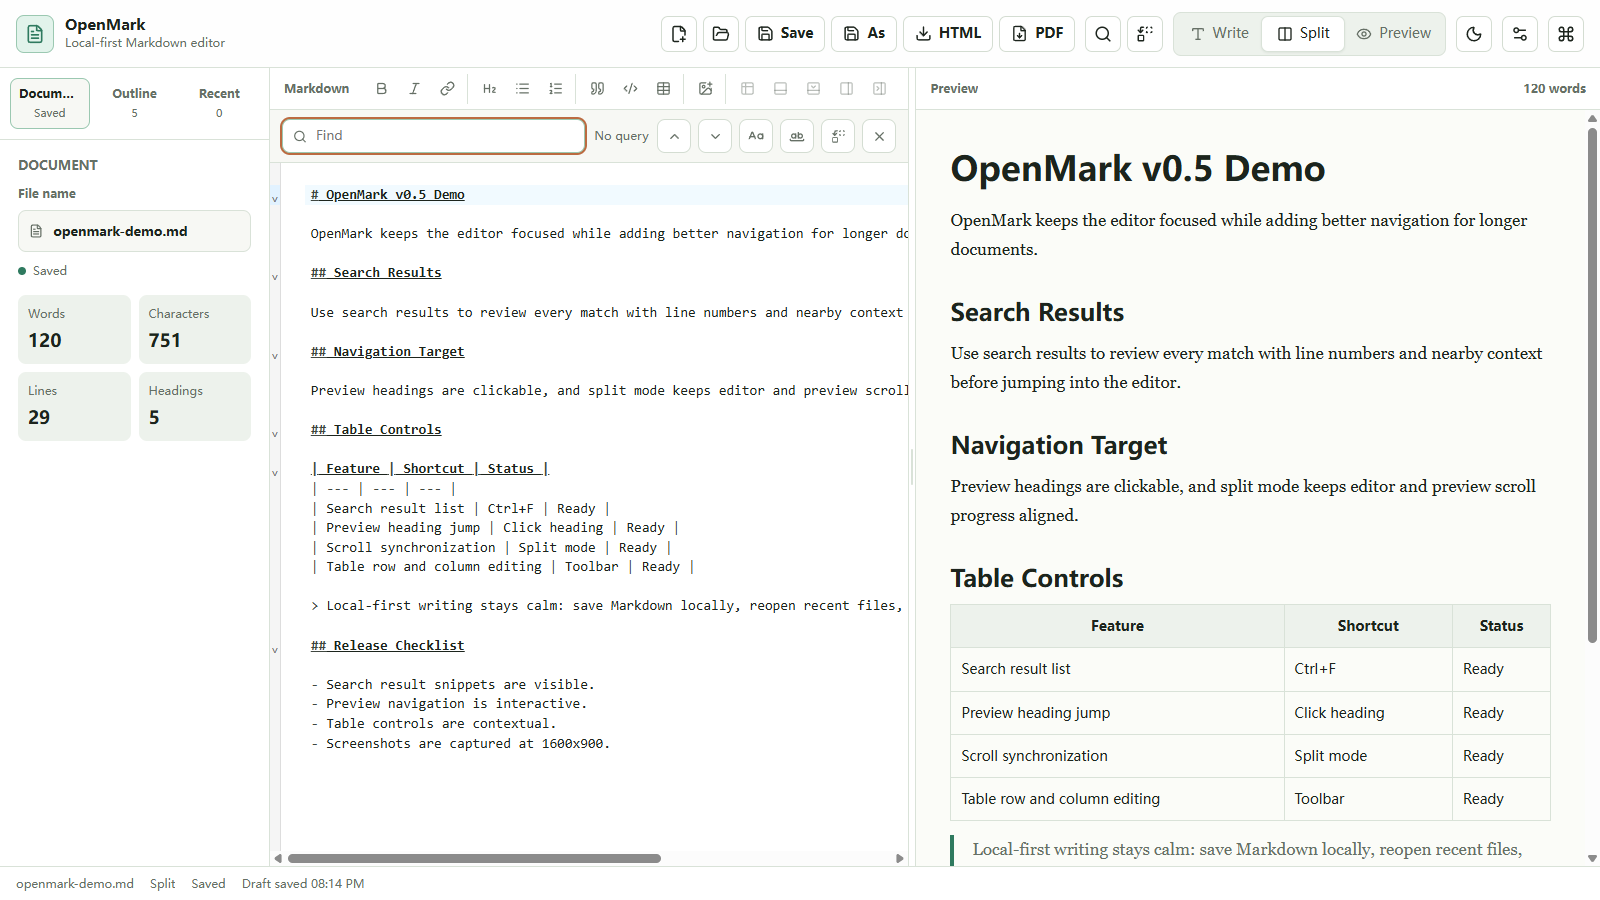
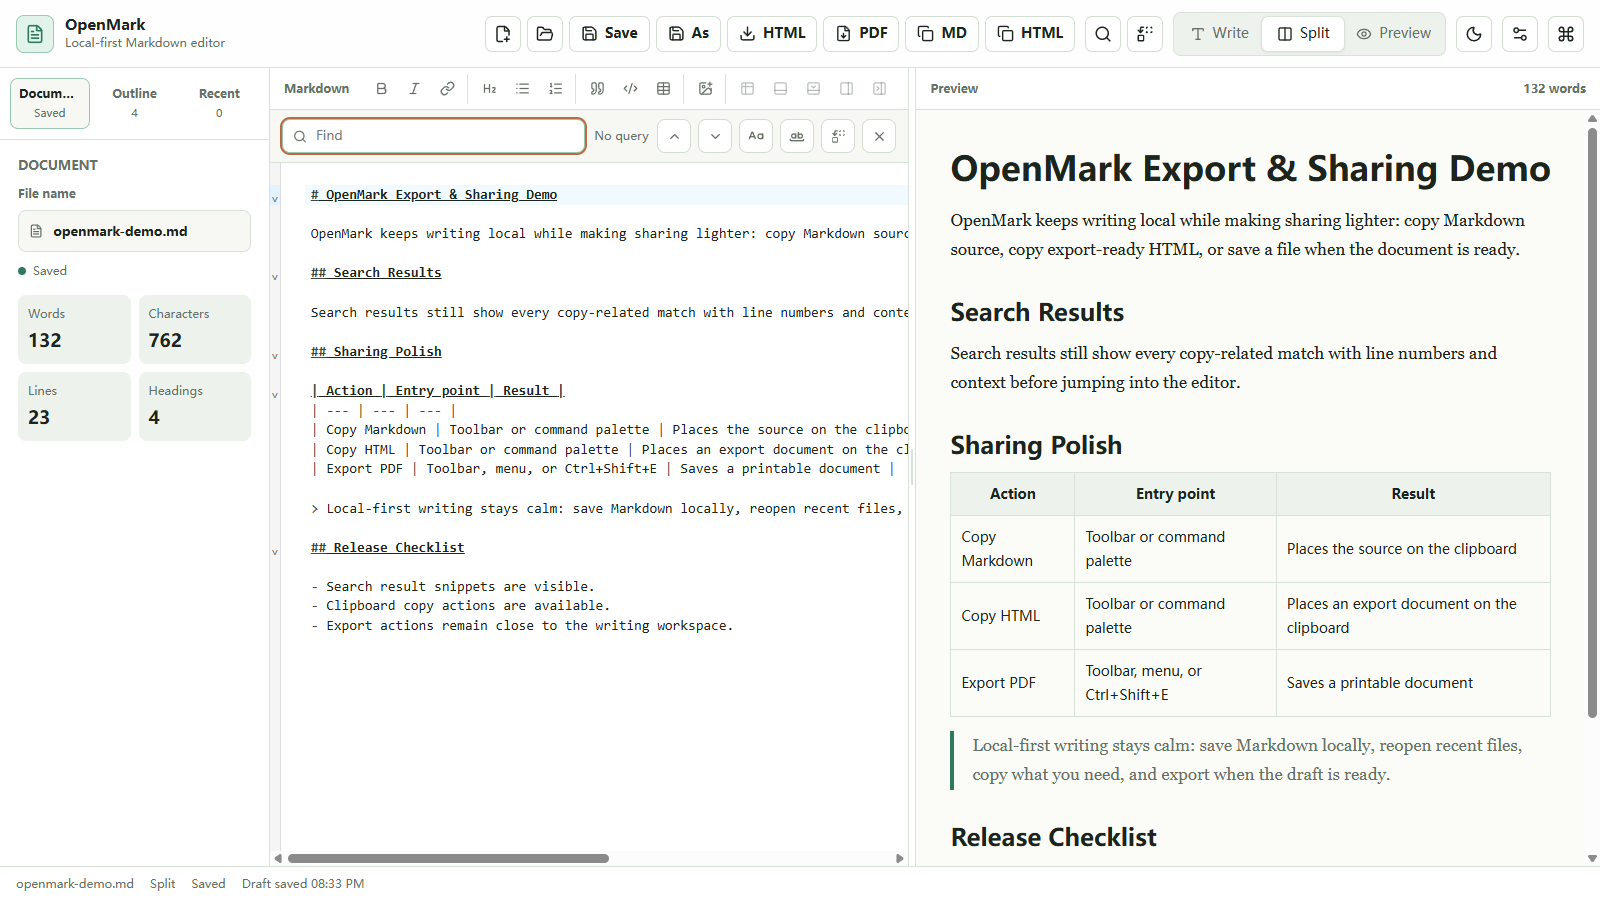
Add clipboard sharing actions

diff --git a/src/App.tsx b/src/App.tsx
@@ -31,6 +31,7 @@ import {
   Code2,
   Columns2,
   Command as CommandIcon,
+  Copy,
   Download,
   Eye,
   FileDown,
@@ -84,6 +85,9 @@ type BlockFormat = 'heading-2' | 'bullet-list' | 'ordered-list' | 'quote' | 'cod
 type MarkdownFormat = InlineFormat | BlockFormat
 type TableEditAction = 'format' | 'insert-row-below' | 'delete-row' | 'insert-column-right' | 'delete-column'
 type TableTranslationKey = 'formatTable' | 'addRowBelow' | 'deleteRow' | 'addColumnRight' | 'deleteColumn'
+type ClipboardCopyKind = 'markdown' | 'html'
+
+const clipboardWriteTimeoutMs = 1200
 
 type OutlineItem = {
   level: number
@@ -1212,6 +1216,7 @@ function App() {
   const [previewImageSources, setPreviewImageSources] = useState<PreviewImageSource[]>([])
   const [isThemeSettingsOpen, setIsThemeSettingsOpen] = useState(false)
   const [updateStatus, setUpdateStatus] = useState<OpenMarkUpdateStatus>(defaultUpdateStatus)
+  const [clipboardCopyKind, setClipboardCopyKind] = useState<ClipboardCopyKind | null>(null)
   const theme = themePreference === 'system' ? systemTheme : themePreference
   const locale = localePreference === 'system' ? systemLocale : localePreference
   const t = translations[locale]
@@ -1331,6 +1336,22 @@ function App() {
       Icon: FileDown,
       keywords: ['print', 'publish'],
       action: () => { void handleExportPdf() },
+    },
+    {
+      id: 'copy-markdown',
+      label: t.commands.copyMarkdown,
+      group: t.groups.file,
+      Icon: Copy,
+      keywords: ['clipboard', 'share', 'source'],
+      action: () => { void handleCopyMarkdown() },
+    },
+    {
+      id: 'copy-html',
+      label: t.commands.copyHtml,
+      group: t.groups.file,
+      Icon: Copy,
+      keywords: ['clipboard', 'share', 'export', 'html'],
+      action: () => { void handleCopyHtml() },
     },
     {
       id: 'find-document',
@@ -1510,6 +1531,11 @@ function App() {
   const draftStatusLabel = lastSavedAt
     ? `${t.status.draftSaved} ${lastSavedLabel}`
     : lastSavedLabel
+  const clipboardStatusLabel = clipboardCopyKind === null
+    ? null
+    : clipboardCopyKind === 'markdown'
+      ? t.status.copiedMarkdown
+      : t.status.copiedHtml
 
   useEffect(() => {
     const saveTimer = window.setTimeout(() => {
@@ -1521,6 +1547,16 @@ function App() {
 
     return () => window.clearTimeout(saveTimer)
   }, [fileName, markdownValue, recentFiles])
+
+  useEffect(() => {
+    if (clipboardCopyKind === null) {
+      return undefined
+    }
+
+    const clearTimer = window.setTimeout(() => setClipboardCopyKind(null), 2400)
+
+    return () => window.clearTimeout(clearTimer)
+  }, [clipboardCopyKind])
 
   useEffect(() => {
     window.localStorage.setItem(themeStorageKey, themePreference)
@@ -1719,6 +1755,12 @@ function App() {
           break
         case 'export-pdf':
           void handleExportPdf()
+          break
+        case 'copy-markdown':
+          void handleCopyMarkdown()
+          break
+        case 'copy-html':
+          void handleCopyHtml()
           break
         case 'set-write-mode':
           setMode('write')
@@ -2138,6 +2180,79 @@ function App() {
     window.setTimeout(() => {
       printWindow.print()
     }, 250)
+  }
+
+  function copyTextWithTextArea(content: string) {
+    const textArea = document.createElement('textarea')
+    textArea.value = content
+    textArea.setAttribute('readonly', '')
+    textArea.style.position = 'fixed'
+    textArea.style.top = '-1000px'
+    document.body.append(textArea)
+    textArea.select()
+    const didCopy = document.execCommand('copy')
+    textArea.remove()
+
+    return didCopy
+  }
+
+  async function writeTextWithBrowserClipboard(content: string) {
+    if (!navigator.clipboard || !window.isSecureContext) {
+      return false
+    }
+
+    let timeoutId = 0
+
+    try {
+      await Promise.race([
+        navigator.clipboard.writeText(content),
+        new Promise<never>((_resolve, reject) => {
+          timeoutId = window.setTimeout(() => reject(new Error('Clipboard write timed out')), clipboardWriteTimeoutMs)
+        }),
+      ])
+
+      return true
+    } catch {
+      return false
+    } finally {
+      window.clearTimeout(timeoutId)
+    }
+  }
+
+  async function writeClipboardText(content: string) {
+    try {
+      if (window.openmark) {
+        const result = await window.openmark.writeClipboardText(content)
+        return result.copied
+      }
+
+      if (await writeTextWithBrowserClipboard(content)) {
+        return true
+      }
+
+      return copyTextWithTextArea(content)
+    } catch {
+      return false
+    }
+  }
+
+  async function copyDocumentToClipboard(kind: ClipboardCopyKind, content: string) {
+    const didCopy = await writeClipboardText(content)
+
+    if (!didCopy) {
+      window.alert(t.alerts.copyFailed)
+      return
+    }
+
+    setClipboardCopyKind(kind)
+  }
+
+  async function handleCopyMarkdown() {
+    await copyDocumentToClipboard('markdown', markdownValue)
+  }
+
+  async function handleCopyHtml() {
+    await copyDocumentToClipboard('html', buildExportHtml())
   }
 
   function toggleTheme() {
@@ -2691,6 +2806,24 @@ function App() {
               <FileDown size={17} />
               <span>PDF</span>
             </button>
+            <button
+              type="button"
+              className="tool-button compact-tool"
+              onClick={() => { void handleCopyMarkdown() }}
+              title={t.toolbar.copyMarkdown}
+            >
+              <Copy size={17} />
+              <span>MD</span>
+            </button>
+            <button
+              type="button"
+              className="tool-button compact-tool"
+              onClick={() => { void handleCopyHtml() }}
+              title={t.toolbar.copyHtml}
+            >
+              <Copy size={17} />
+              <span>HTML</span>
+            </button>
           </div>
 
           <div className="tool-group">
@@ -3229,7 +3362,7 @@ function App() {
         <span>{fileName}</span>
         <span>{t.viewModes[mode]}</span>
         <span>{hasUnsavedChanges ? t.document.unsaved : t.document.saved}</span>
-        <span>{draftStatusLabel}</span>
+        <span>{clipboardStatusLabel ?? draftStatusLabel}</span>
       </footer>
 
       {isCommandPaletteOpen && (

diff --git a/src/i18n.ts b/src/i18n.ts
@@ -17,6 +17,8 @@ const en = {
     saveAs: 'As',
     exportHtml: 'Export HTML',
     exportPdf: 'Export PDF',
+    copyMarkdown: 'Copy Markdown',
+    copyHtml: 'Copy HTML',
     findInDocument: 'Find in document',
     replaceInDocument: 'Replace in document',
     viewMode: 'View mode',
@@ -56,6 +58,8 @@ const en = {
     saveDocumentAs: 'Save document as',
     exportHtml: 'Export HTML',
     exportPdf: 'Export PDF',
+    copyMarkdown: 'Copy Markdown',
+    copyHtml: 'Copy HTML',
     findInDocument: 'Find in document',
     replaceInDocument: 'Replace in document',
     insertImage: 'Insert image',
@@ -175,6 +179,8 @@ const en = {
   status: {
     draftSaved: 'Draft saved',
     waitingForDraftSave: 'Waiting for draft save',
+    copiedMarkdown: 'Markdown copied',
+    copiedHtml: 'HTML copied',
   },
   alerts: {
     unsavedChanges: 'You have unsaved changes.',
@@ -183,6 +189,7 @@ const en = {
     recentFileOpenFailed: 'This recent file could not be opened.',
     unsupportedImage: 'Choose a PNG, JPG, GIF, WebP, or SVG image.',
     allowPopupsForPdf: 'Allow pop-ups to open the print view, then choose Save as PDF.',
+    copyFailed: 'This document could not be copied to the clipboard.',
   },
 }
 
@@ -202,6 +209,8 @@ const zhCN: TranslationCatalog = {
     saveAs: '另存',
     exportHtml: '导出 HTML',
     exportPdf: '导出 PDF',
+    copyMarkdown: '复制 Markdown',
+    copyHtml: '复制 HTML',
     findInDocument: '在文档中查找',
     replaceInDocument: '在文档中替换',
     viewMode: '视图模式',
@@ -241,6 +250,8 @@ const zhCN: TranslationCatalog = {
     saveDocumentAs: '文档另存为',
     exportHtml: '导出 HTML',
     exportPdf: '导出 PDF',
+    copyMarkdown: '复制 Markdown',
+    copyHtml: '复制 HTML',
     findInDocument: '在文档中查找',
     replaceInDocument: '在文档中替换',
     insertImage: '插入图片',
@@ -360,6 +371,8 @@ const zhCN: TranslationCatalog = {
   status: {
     draftSaved: '草稿已保存',
     waitingForDraftSave: '等待保存草稿',
+    copiedMarkdown: '已复制 Markdown',
+    copiedHtml: '已复制 HTML',
   },
   alerts: {
     unsavedChanges: '你有未保存的更改。',
@@ -368,6 +381,7 @@ const zhCN: TranslationCatalog = {
     recentFileOpenFailed: '无法打开这个最近文件。',
     unsupportedImage: '请选择 PNG、JPG、GIF、WebP 或 SVG 图片。',
     allowPopupsForPdf: '请允许弹出打印视图，然后选择另存为 PDF。',
+    copyFailed: '无法将当前文档复制到剪贴板。',
   },
 }
 

diff --git a/src/electron.d.ts b/src/electron.d.ts
@@ -8,6 +8,8 @@ declare global {
     | 'save-document-as'
     | 'export-html'
     | 'export-pdf'
+    | 'copy-markdown'
+    | 'copy-html'
     | 'set-write-mode'
     | 'set-split-mode'
     | 'set-preview-mode'
@@ -86,6 +88,10 @@ declare global {
         canceled: boolean
         filePath?: string
         fileName?: string
+        error?: string
+      }>
+      writeClipboardText: (text: string) => Promise<{
+        copied: boolean
         error?: string
       }>
       getUpdateStatus: () => Promise<OpenMarkUpdateStatus>

diff --git a/docs/roadmap.md b/docs/roadmap.md
@@ -49,3 +49,10 @@
 - Editor and preview scroll synchronization ✅
 - Stronger table editing controls ✅
 - v0.5.0 screenshots, changelog, and release notes ✅
+
+## Milestone 7: Export & Sharing Polish
+
+- Copy Markdown and export-ready HTML to the clipboard ✅
+- Export preset polish
+- Printable preview improvements
+- Share-friendly document metadata

diff --git a/CHANGELOG.md b/CHANGELOG.md
@@ -4,6 +4,10 @@ All notable changes to OpenMark will be documented in this file.
 
 ## Unreleased
 
+### Export & Sharing
+
+- Added toolbar, command palette, and desktop menu actions for copying Markdown or export-ready HTML to the clipboard.
+
 ## 0.5.0 - 2026-06-08
 
 ### Search & Navigation